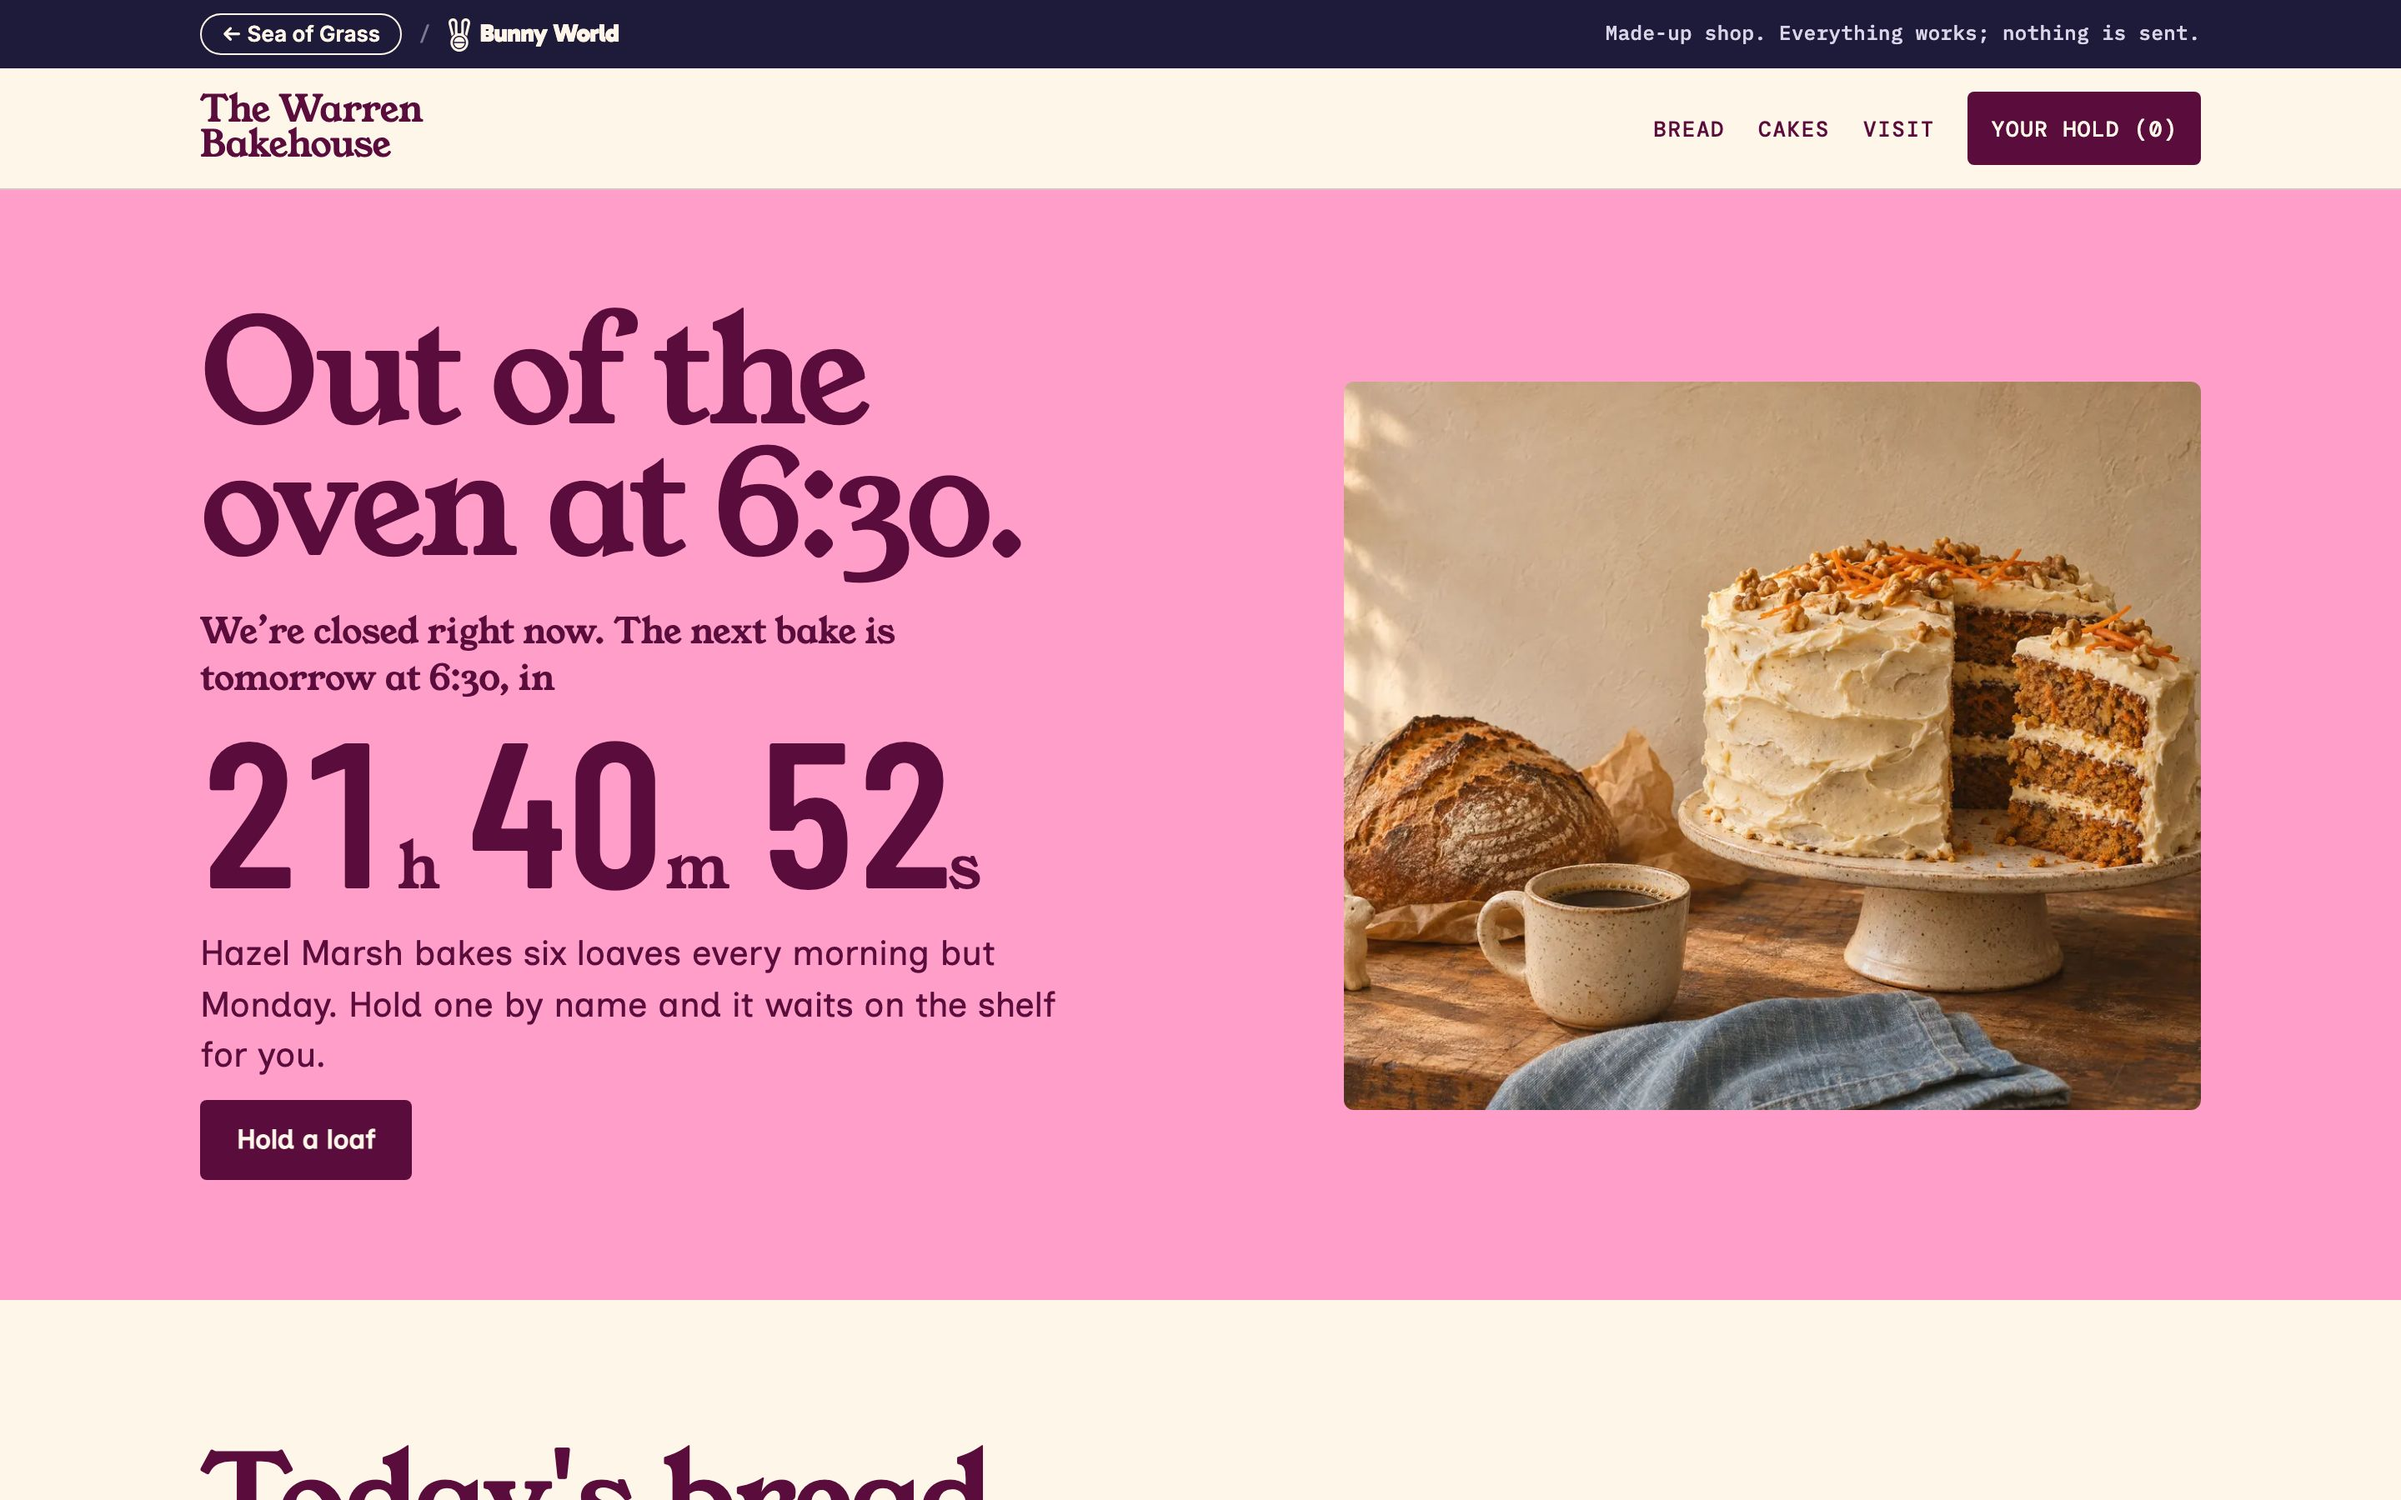
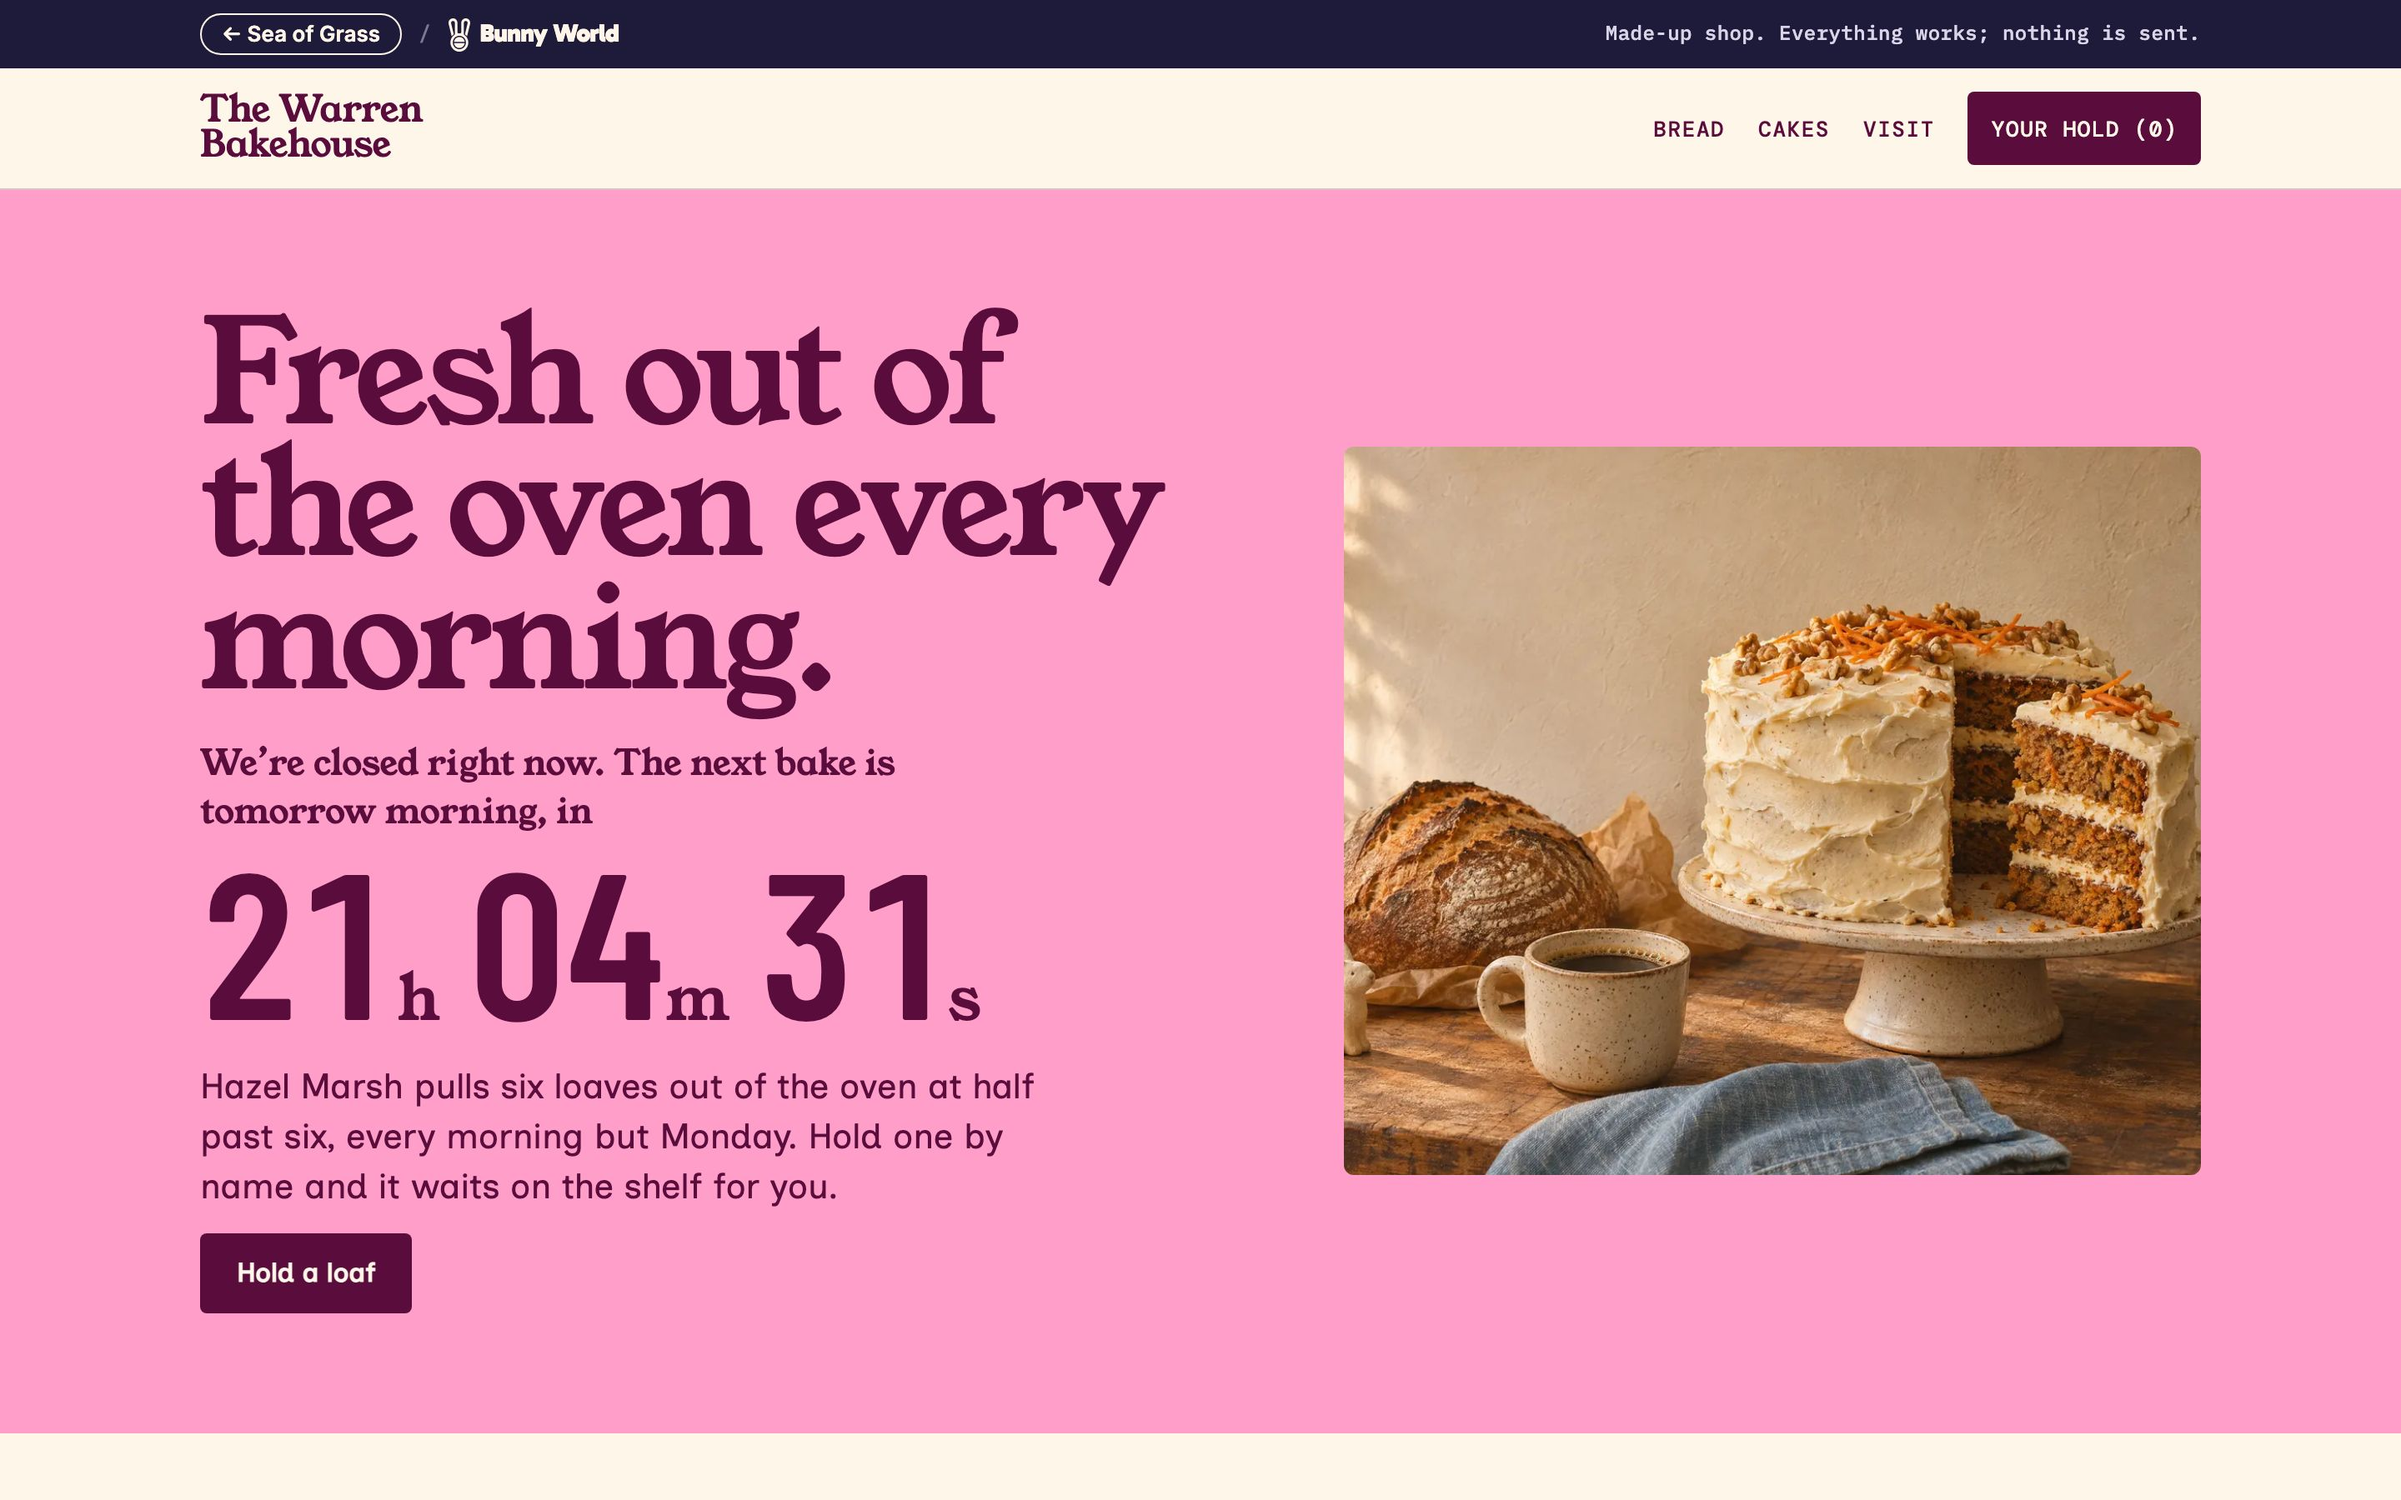
Warren hero: no serif digits (headline 'Fresh out of the oven every morning.', labels in words); test that no serif text in the hero holds a digit

Changed region(s): [[0.0, 0.1867, 1.0, 1.0], [0.5625, 0.3422, 0.9375, 0.8089], [0.5625, 0.2489, 0.9375, 0.3422]]

diff --git a/bunnyworld/warren-bakehouse/index.html b/bunnyworld/warren-bakehouse/index.html
@@ -25,9 +25,9 @@ window.dataLayer=window.dataLayer||[];function gtag(){dataLayer.push(arguments);
 <main id="top">
 <section class="hero" aria-labelledby="hero-h"><div class="wrap hero-in">
 <div class="hero-copy">
-<h1 id="hero-h">Out of the oven at&nbsp;6:30.</h1>
-<div class="count"><p class="next" data-next>The next bake is at 6:30 am.</p><p class="clock" data-countdown role="timer" aria-live="off" aria-label="Time until the next bake"><span data-d>00</span><span class="u">h</span><span data-d>00</span><span class="u">m</span><span class="sec"><span data-d>00</span><span class="u">s</span></span></p></div>
-<p class="lead">Hazel Marsh bakes six loaves every morning but Monday. Hold one by name and it waits on the shelf for you.</p>
+<h1 id="hero-h">Fresh out of the oven every morning.</h1>
+<div class="count"><p class="next" data-next>The next bake is early tomorrow morning, in</p><p class="clock" data-countdown role="timer" aria-live="off" aria-label="Time until the next bake"><span data-d>00</span><span class="u">h</span><span data-d>00</span><span class="u">m</span><span class="sec"><span data-d>00</span><span class="u">s</span></span></p></div>
+<p class="lead">Hazel Marsh pulls six loaves out of the oven at half past six, every morning but Monday. Hold one by name and it waits on the shelf for you.</p>
 <a class="btn on-dark" href="#bread">Hold a loaf</a>
 </div>
 <figure class="hero-photo"><picture><source type="image/webp" srcset="/preview/assets/work/bunny-world/warren-hero-1280.webp 1280w, /preview/assets/work/bunny-world/warren-hero-1920.webp 1920w" sizes="(max-width: 860px) calc(100vw - 32px), 560px"><img src="/preview/assets/work/bunny-world/warren-hero-1600.jpg" width="1600" height="1062" alt="A sourdough loaf and a carrot cake with one slice pulled out, beside a cup of coffee" fetchpriority="high"></picture></figure>
@@ -69,7 +69,7 @@ window.dataLayer=window.dataLayer||[];function gtag(){dataLayer.push(arguments);
 <div class="faq"><h3>Questions people ask</h3><details><summary>How far ahead should I order?</summary><p>A box of pastries needs one day, a cake needs two, and a wedding cake needs about a month.</p></details><details><summary>Do you deliver?</summary><p>Yes, within five miles for orders over $60.</p></details><details><summary>Is anything nut-free?</summary><p>We bake with nuts in the same kitchen, so we can't promise that anything is nut-free. The gluten-free banana loaf is baked first, before any wheat flour comes out.</p></details></div></section>
 <script>(()=>{const d=document.getElementById('cake-day');if(!d)return;const t=new Date();t.setDate(t.getDate()+2);d.min=t.toISOString().slice(0,10);})();</script>
 </main>
-<script src="bell.js?v=4" defer></script>
+<script src="bell.js?v=5" defer></script>
 <section class="want"><div><h2>Run a bakery or café? Your site can do all of this.</h2><p>We build it in your own look, connect it to the tools you already use and keep it running for you. You get a fixed price in writing before we start, and you talk to Tristan or Bryce the whole way.</p></div><div style="display:flex;flex-wrap:wrap;gap:10px"><a href="https://cal.com/sea-of-grass" target="_blank" rel="noopener">Book a free 20-minute look</a></div></section>
 <script src="../bw.js?v=14" defer></script>
 </body>

diff --git a/bunnyworld/warren-bakehouse/bell.js b/bunnyworld/warren-bakehouse/bell.js
@@ -13,15 +13,16 @@ const fmt=new Intl.DateTimeFormat('en-US',{timeZone:'America/Denver',weekday:'sh
 function now(){const p=Object.fromEntries(fmt.formatToParts(new Date()).map(x=>[x.type,x.value]));
   return{day:['Sun','Mon','Tue','Wed','Thu','Fri','Sat'].indexOf(p.weekday),s:(+p.hour%24)*3600+(+p.minute)*60+(+p.second)};}
 function next(n){for(let k=0;k<8;k++){const d=(n.day+k)%7;if(!(d in CLOSE))continue;const at=k*86400+BELL;if(at>n.s)return{left:at-n.s,k,d};}return{left:0,k:0,d:n.day};}
-const shut=t=>{const h=Math.floor(t/3600);return(h>12?h-12:h)+' pm';};
+const WORD=['twelve','one','two','three','four','five','six','seven','eight','nine','ten','eleven'];
+const shut=t=>WORD[Math.floor(t/3600)%12]; // words, not digits: the serif's figures are oldstyle (Tristan, 2026-11-16)
 const pad=v=>String(v).padStart(2,'0');
 let lastLabel='',lastMin=-1;
 function draw(){const n=now(),x=next(n);
   const open=n.day in CLOSE&&n.s>=BELL&&n.s<CLOSE[n.day];
-  const when=x.k===0?'this morning':x.k===1?'tomorrow':'on '+DAYS[x.d];
-  const label=x.k===0&&!open?'This morning’s bread comes out at 6:30. That’s in':
-    open?`Today’s bread is out until ${shut(CLOSE[n.day])}. The next bake is ${when} at 6:30, in`:
-    `We’re closed right now. The next bake is ${when} at 6:30, in`;
+  const when=x.k===1?'tomorrow morning':'on '+DAYS[x.d]+' morning';
+  const label=x.k===0&&!open?'This morning’s bread comes out in':
+    open?`Today’s bread is out, and we’re open until ${shut(CLOSE[n.day])}. The next bake is ${when}, in`:
+    `We’re closed right now. The next bake is ${when}, in`;
   if(label!==lastLabel){lab.textContent=label;lastLabel=label;}
   let t=Math.max(0,x.left);if(reduce)t=Math.ceil(t/60)*60;
   const h=Math.floor(t/3600),m=Math.floor(t%3600/60),s=t%60;
